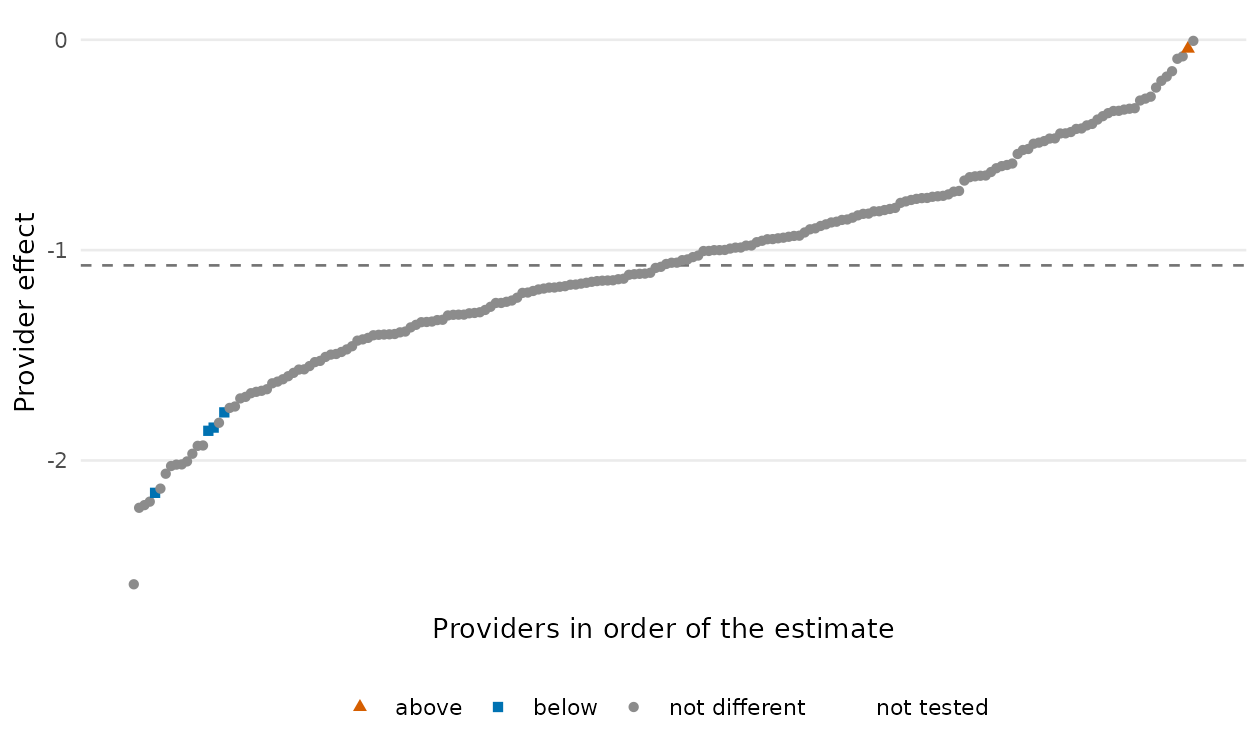
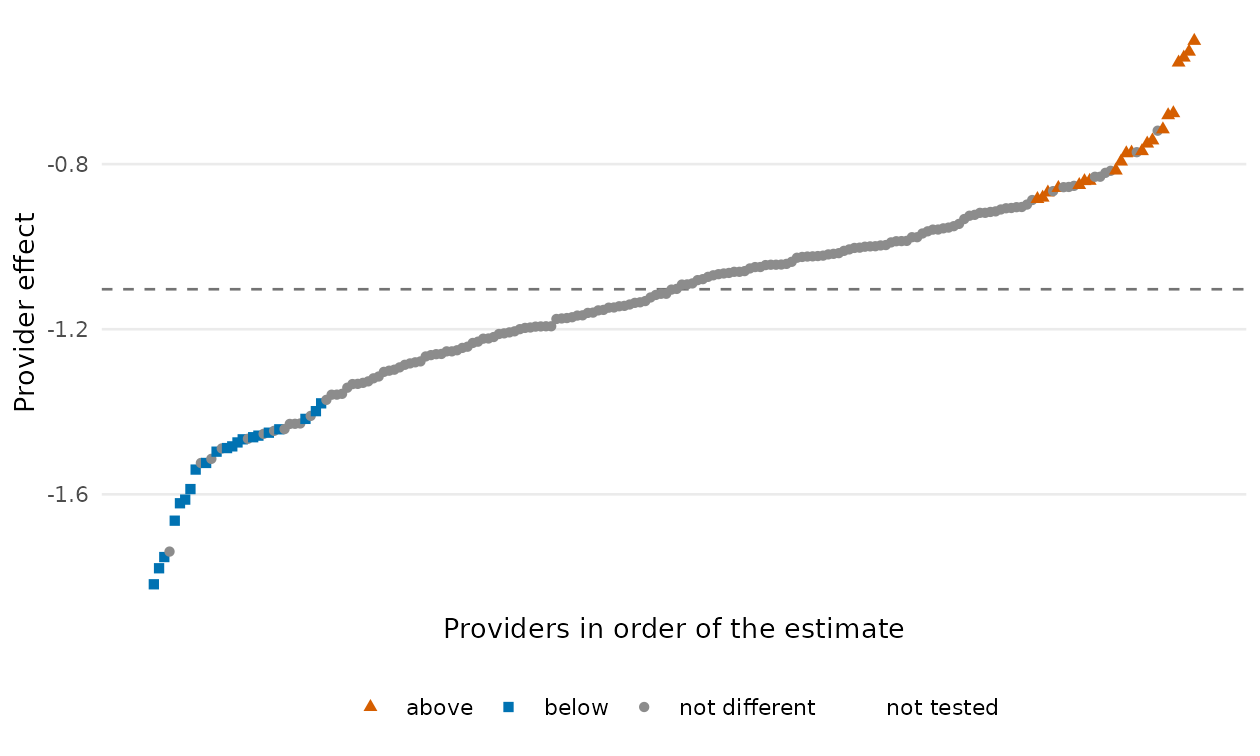
README: the ten-line example and its two figures use the plain score test under the theoretical null (funnel with the test's own limits, observed against expected); version 2.0.4

diff --git a/README.md b/README.md
@@ -32,8 +32,7 @@ fit <- fit_logistic_fe(pd)                            # logistic model, one effe
 summary(fit)                                          # the risk-factor coefficients
 
 sm  <- standardize(fit, type = "indirect")            # observed / expected per provider
-tst <- test(fit, statistic = "score", variance = "robust",   # one test per provider,
-            null_model = "empirical")                 # calibrated by an empirical null
+tst <- test(fit, statistic = "score")                 # one score test per provider
 tst                                                   # flags: 1 above, -1 below, 0 not different
 
 plot(tst)                                             # caterpillar plot
@@ -85,8 +84,8 @@ pp_data()                 data: declare the outcome, risk factors, provider and 
 ```
 
 <p align="center">
-  <img src="man/figures/readme-funnel.png" width="49%" alt="Funnel plot: standardized ratio against precision, with the limits of the test"/>
-  <img src="man/figures/readme-null.png" width="49%" alt="The empirical null by provider-size group against the theoretical N(0, 1)"/>
+  <img src="man/figures/readme-funnel.png" width="49%" alt="Funnel plot: observed over expected events against precision, with the limits of the score test"/>
+  <img src="man/figures/readme-observed-expected.png" width="49%" alt="Observed against expected events per provider, coloured by the flags of the score test"/>
 </p>
 
 ## Learn more

diff --git a/NEWS.md b/NEWS.md
@@ -1,3 +1,8 @@
+# pprof 2.0.4
+
+* README: the ten-line example and its figures use the plain score test under the
+  theoretical null.
+
 # pprof 2.0.3
 
 * The funnel plot of a score test (`plot(test, type = "funnel")`) is drawn:
